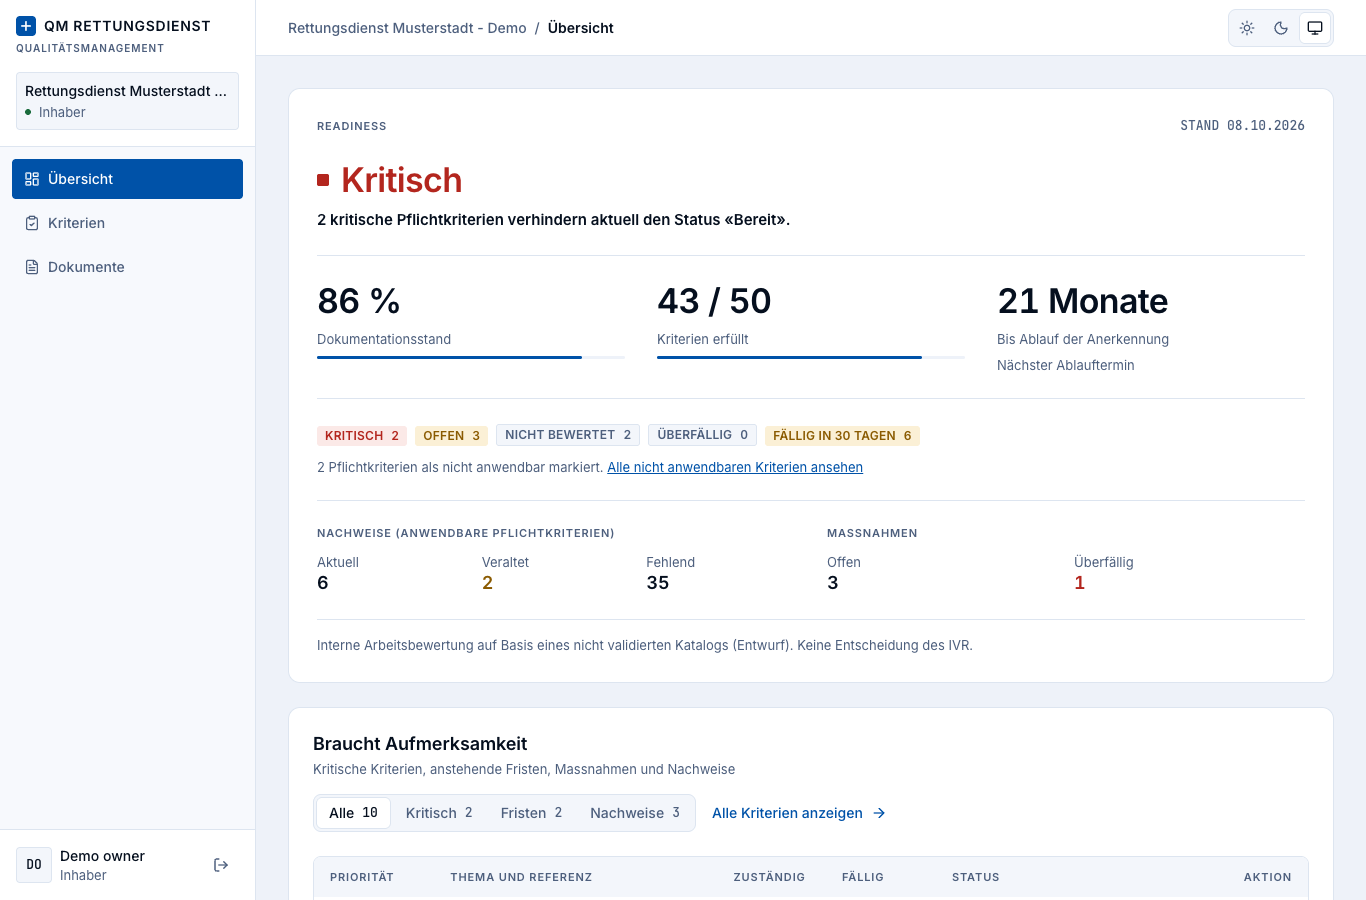
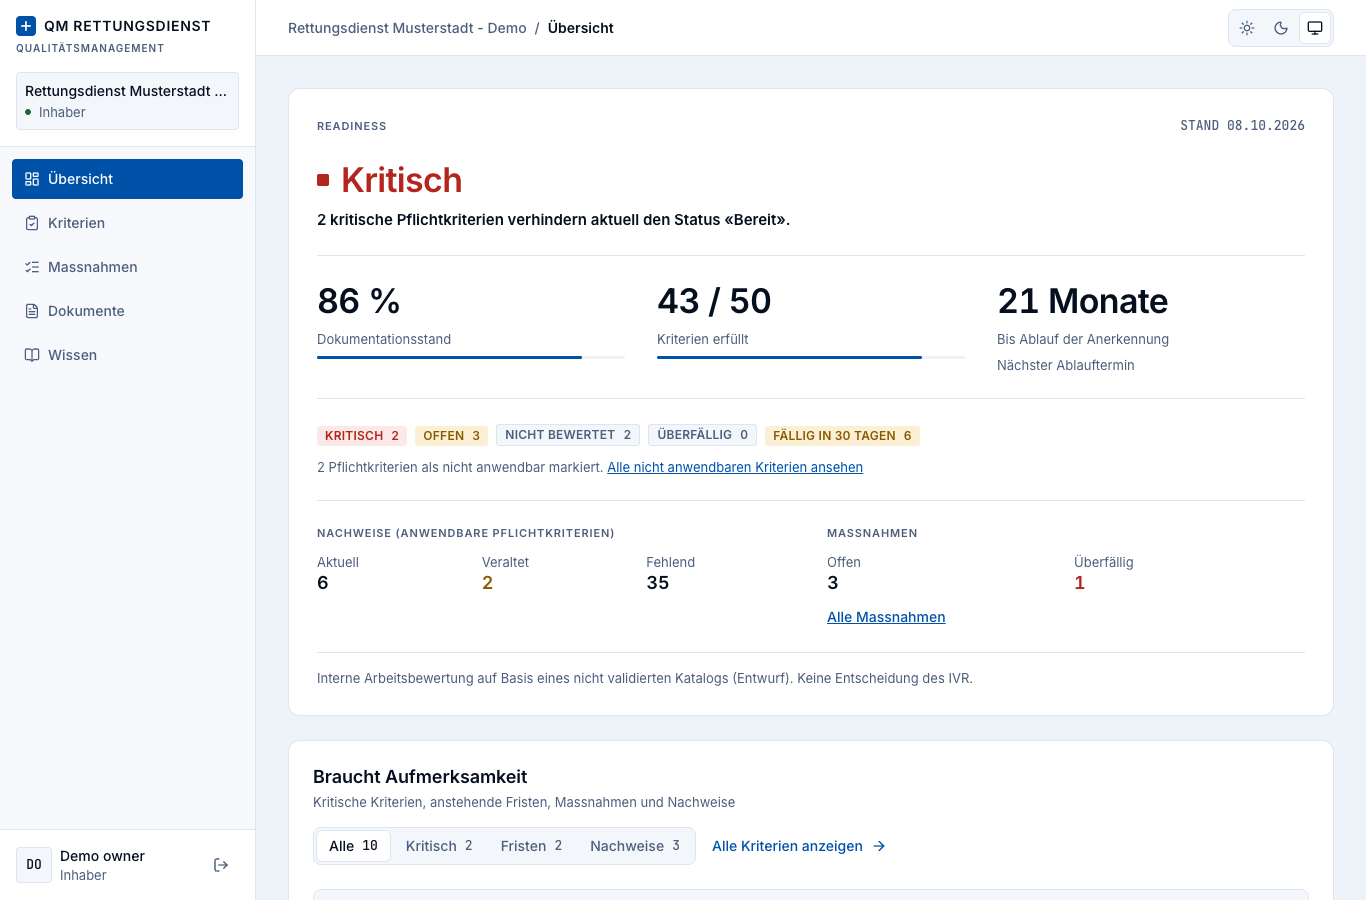
docs(qm): final demo flow with register and PDCA steps and fresh screenshots

diff --git a/qm/docs/demo/DEMO-FLOW.md b/qm/docs/demo/DEMO-FLOW.md
@@ -32,16 +32,25 @@ Alles im Ablauf unten dient diesen drei Sätzen. Wenn die Zeit knapp wird, genü
 | 5:30 | 7. Versionen und Verlauf | «Versionen anzeigen»: V2 neueste, V1 ersetzt, Download beider. Darunter der Verlauf mit Upload und neuer Version | «Wer hat wann was hochgeladen: lückenlos, nicht nachträglich änderbar.» |
 | 6:30 | 8. Stand bewusst setzen | Stand auf «Erfüllt», Verlauf zeigt den Statuswechsel | «Der Nachweis allein setzt nichts. Die Entscheidung bleibt bei der verantwortlichen Person.» |
 | 7:00 | 9. Zurück zur Übersicht | Kritische Pflichtkriterien 2 auf 1, veralteter Nachweis weg, Readiness weiterhin «Kritisch» | «Die Wirkung ist sofort sichtbar, ohne dass die Bewertung geschönt wird.» |
-| 7:45 | 10. Massnahmen | Kriterium 7.3.8: Massnahme mit Verantwortlicher und Frist, Status setzen | «Aus Lücken werden Massnahmen mit Frist und Verantwortung.» |
-| 8:30 | 11. Dokumente | Seite «Dokumente»: alle Nachweise, Zuordnung zu Kriterien | «Ein Dokument kann mehrere Kriterien belegen.» |
-| 9:15 | 12. Rolle Viewer | Anmelden als `viewer@demo.qm.test`: nur Lesen, keine Formulare, kein Verlauf | «Lesen und Schreiben sind getrennt, auch Verlauf und Audit sind rollenabhängig.» |
-| 10:00 | 13. Rolle Reviewer (optional) | Schreiben möglich, Verlauf nicht sichtbar | «Prüfende sehen den Stand, den Audit-Verlauf lesen nur Inhaber und QM-Administration.» |
-| 10:45 | 14. Dunkler Modus (optional) | Systemeinstellung wechseln, die Oberfläche folgt | «Gleiche Informationen, für lange Arbeitstage.» |
-| 11:15 | 15. Abschluss | Hinweis auf den Entwurfsstatus des Katalogs, nächste Schritte | «Nächster Schritt ist die Abstimmung des Katalogs mit dem IVR.» |
+| 7:45 | 10. Massnahmen-Register | Menüpunkt «Massnahmen»: alle Massnahmen mit Phase, Frist und Status; Filter «Überfällig», Suche; Kennzahlen «Wirksam» und «Ø Dauer» erscheinen erst, wenn es geprüfte oder abgeschlossene Massnahmen gibt | «Hier steuern Sie alle Massnahmen an einem Ort, nicht nur pro Kriterium.» |
+| 8:15 | 10b. PDCA-Detail | Massnahme «Hygienekonzept überarbeiten» öffnen: Stepper Plan, Do, Check, Act, Checkliste, Wirksamkeitskriterium | «Erledigt ist nicht gleich wirksam: erst die Wirksamkeitsprüfung beantwortet, ob das Problem gelöst ist.» |
+| 9:00 | 11. Dokumente | Seite «Dokumente»: alle Nachweise, Zuordnung zu Kriterien | «Ein Dokument kann mehrere Kriterien belegen.» |
+| 9:30 | 12. Rolle Viewer | Anmelden als `viewer@demo.qm.test`: nur Lesen, keine Formulare, kein Verlauf | «Lesen und Schreiben sind getrennt, auch Verlauf und Audit sind rollenabhängig.» |
+| 10:15 | 13. Rolle Reviewer (optional) | Schreiben möglich, Verlauf nicht sichtbar | «Prüfende sehen den Stand, den Audit-Verlauf lesen nur Inhaber und QM-Administration.» |
+| 11:00 | 14. Dunkler Modus (optional) | Systemeinstellung wechseln, die Oberfläche folgt | «Gleiche Informationen, für lange Arbeitstage.» |
+| 11:30 | 15. Abschluss | Hinweis auf den Entwurfsstatus des Katalogs, nächste Schritte | «Nächster Schritt ist die Abstimmung des Katalogs mit dem IVR.» |
 
 ## Optional: Quellen und Wissen (1 Minute)
 
 Im Kriteriendetail steht unter «Quelle» Ausgabe, Kapitel und Seite mit Link auf das offizielle PDF. Der Menüpunkt «Wissen» erklärt Verfahren und Fristen in eigenen Worten (Entwurf, solange nicht fachlich freigegeben). Satz dazu: «Wir ersetzen die Richtlinie nicht, wir führen Sie dorthin.»
+
+## Stand der Generalprobe (2026-10-08, Production, automatisiert)
+
+- Fünf Rollen: 81 Prüfungen, alle bestanden (die zwei Ausreisser waren die Verlauf-Prüfung im Skript, per Einzelprüfung bestätigt: Owner und QM-Admin sehen den Verlauf, Reviewer, Editor und Viewer nicht).
+- Kompletter PDCA-Durchlauf (Plan, Do, Check «teilweise», Nachschärfen, Check «nicht wirksam», neuer Zyklus, Check «wirksam», bewusster Abschluss, Register, Rechte aller Rollen): 25 von 25.
+- Demo-Pfad des Owners (Upload, Versionen, Statuswechsel, Dashboard): 10 von 10.
+- Danach neu geseedet; die Screenshots in `docs/demo/screenshots/` zeigen den frischen Ausgangszustand.
+- Bekannt: Bei sehr vielen schnellen Anfragen kann eine Anfrage wegen eines Datenbank-Timeouts kurz auf die Anmeldung zurückfallen (zwei Fälle bei rund 300 automatischen Anfragen). Beim Vorführen: Seite neu laden.
 
 ## Wenn etwas hakt
 
